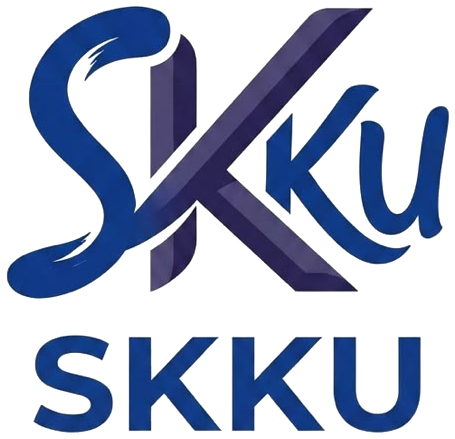
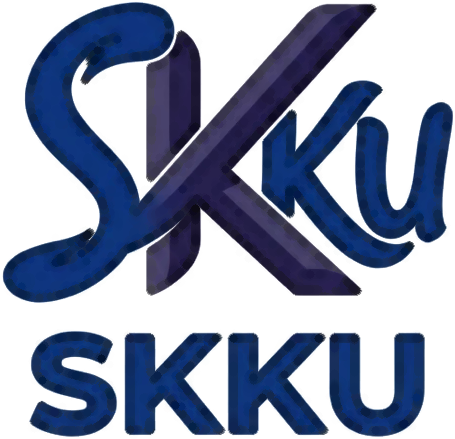
Bolden the brand mark and regenerate derived assets
The script monogram and wordmark were drawn with fine strokes that thinned
out badly at the sizes they actually render — 34px in the navbar, 44px in
the footer, 32px in a browser tab.

Applies a circular morphological dilation (r=4) that carries each pixel's
colour from its most opaque neighbour, so the letterforms thicken while
keeping the bevel shading a flat recolour would have flattened. Radius 4
was the practical ceiling: at r=6 the counters in the script S and Ku
close up and the monogram reads as a blob.

Regenerates everything downstream of the mark — favicons at 32/192/512,
apple-touch-icon, and the OG card.

diff --git a/README.md b/README.md
@@ -56,7 +56,19 @@ It expects a `POST` of `{ "email": "..." }` and treats any non-2xx as an error. 
 ## Still to do
 
 - Add a resume PDF to `public/` and link it from the footer.
-- Consider retuning `--green` in `globals.css` to match the logo — the mark samples at `#206040` (hsl 150, 50%, 25%) while the site accent `#10b981` is hsl(160, 84%, 39%). Nearly the same hue; the clash is saturation and lightness.
+
+## Colour system
+
+Two greens, used for different jobs — this is deliberate, not drift:
+
+| Token | Value | Used for |
+| --- | --- | --- |
+| brand | `#206040` | The SKKU mark: navbar logo, footer logo, favicons, OG card |
+| `--green` | `#10b981` | Actions and emphasis: buttons, stat figures, links, badges |
+
+They share a hue family (hsl 150 vs 160) but differ sharply in saturation
+and lightness, so they read as distinct. Keep the mark forest green and the
+UI emerald; don't "correct" one toward the other without changing both.
 
 ## Social preview
 
